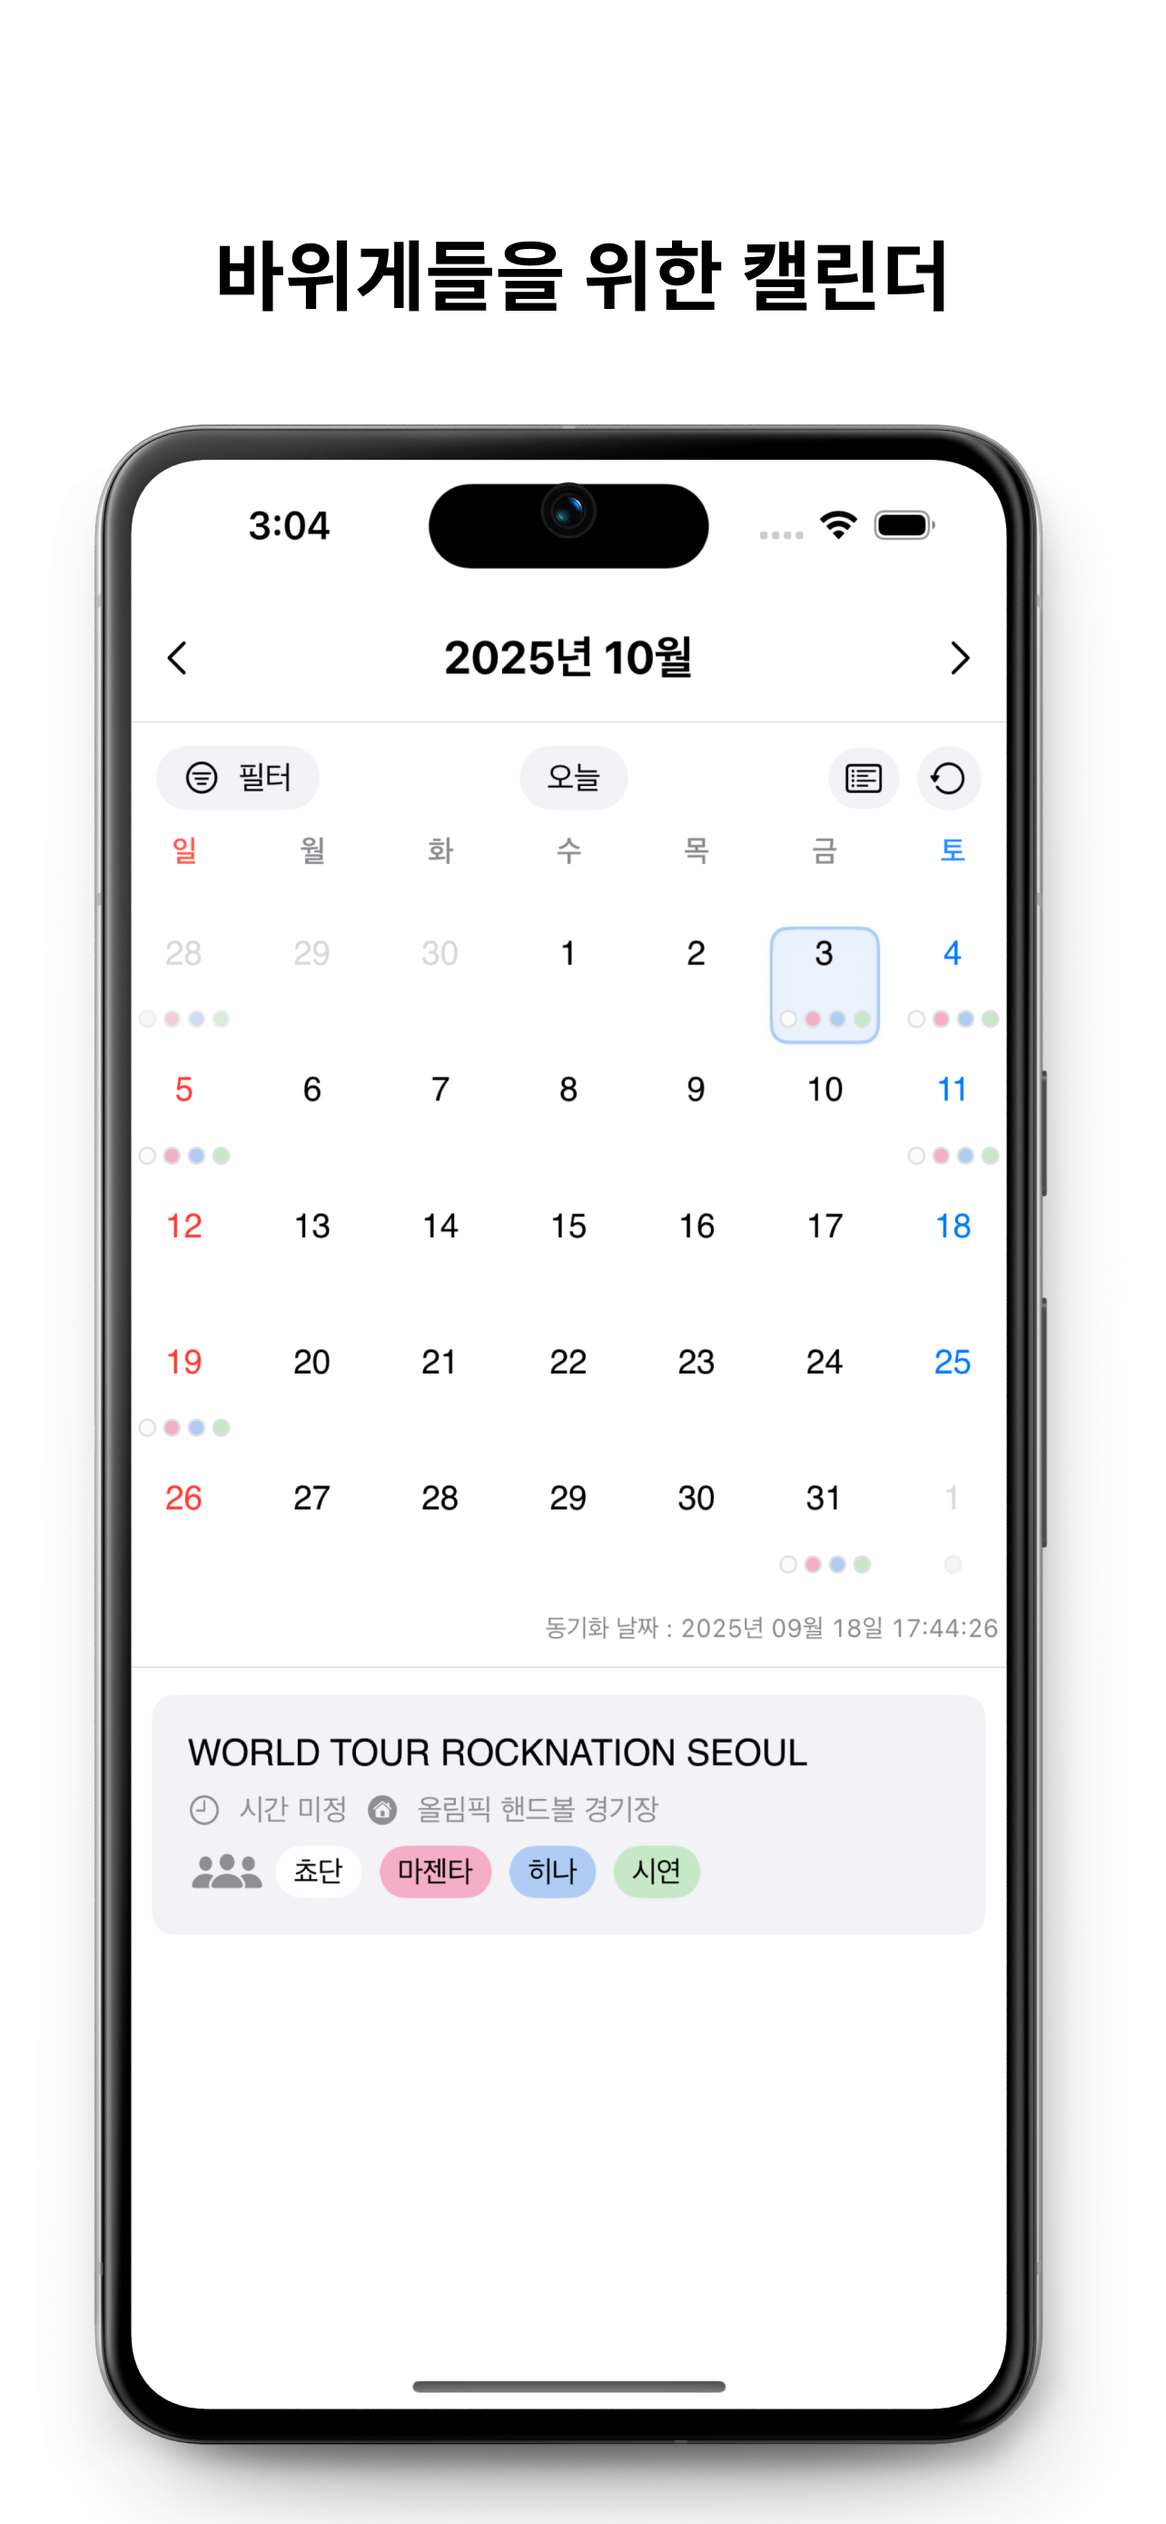
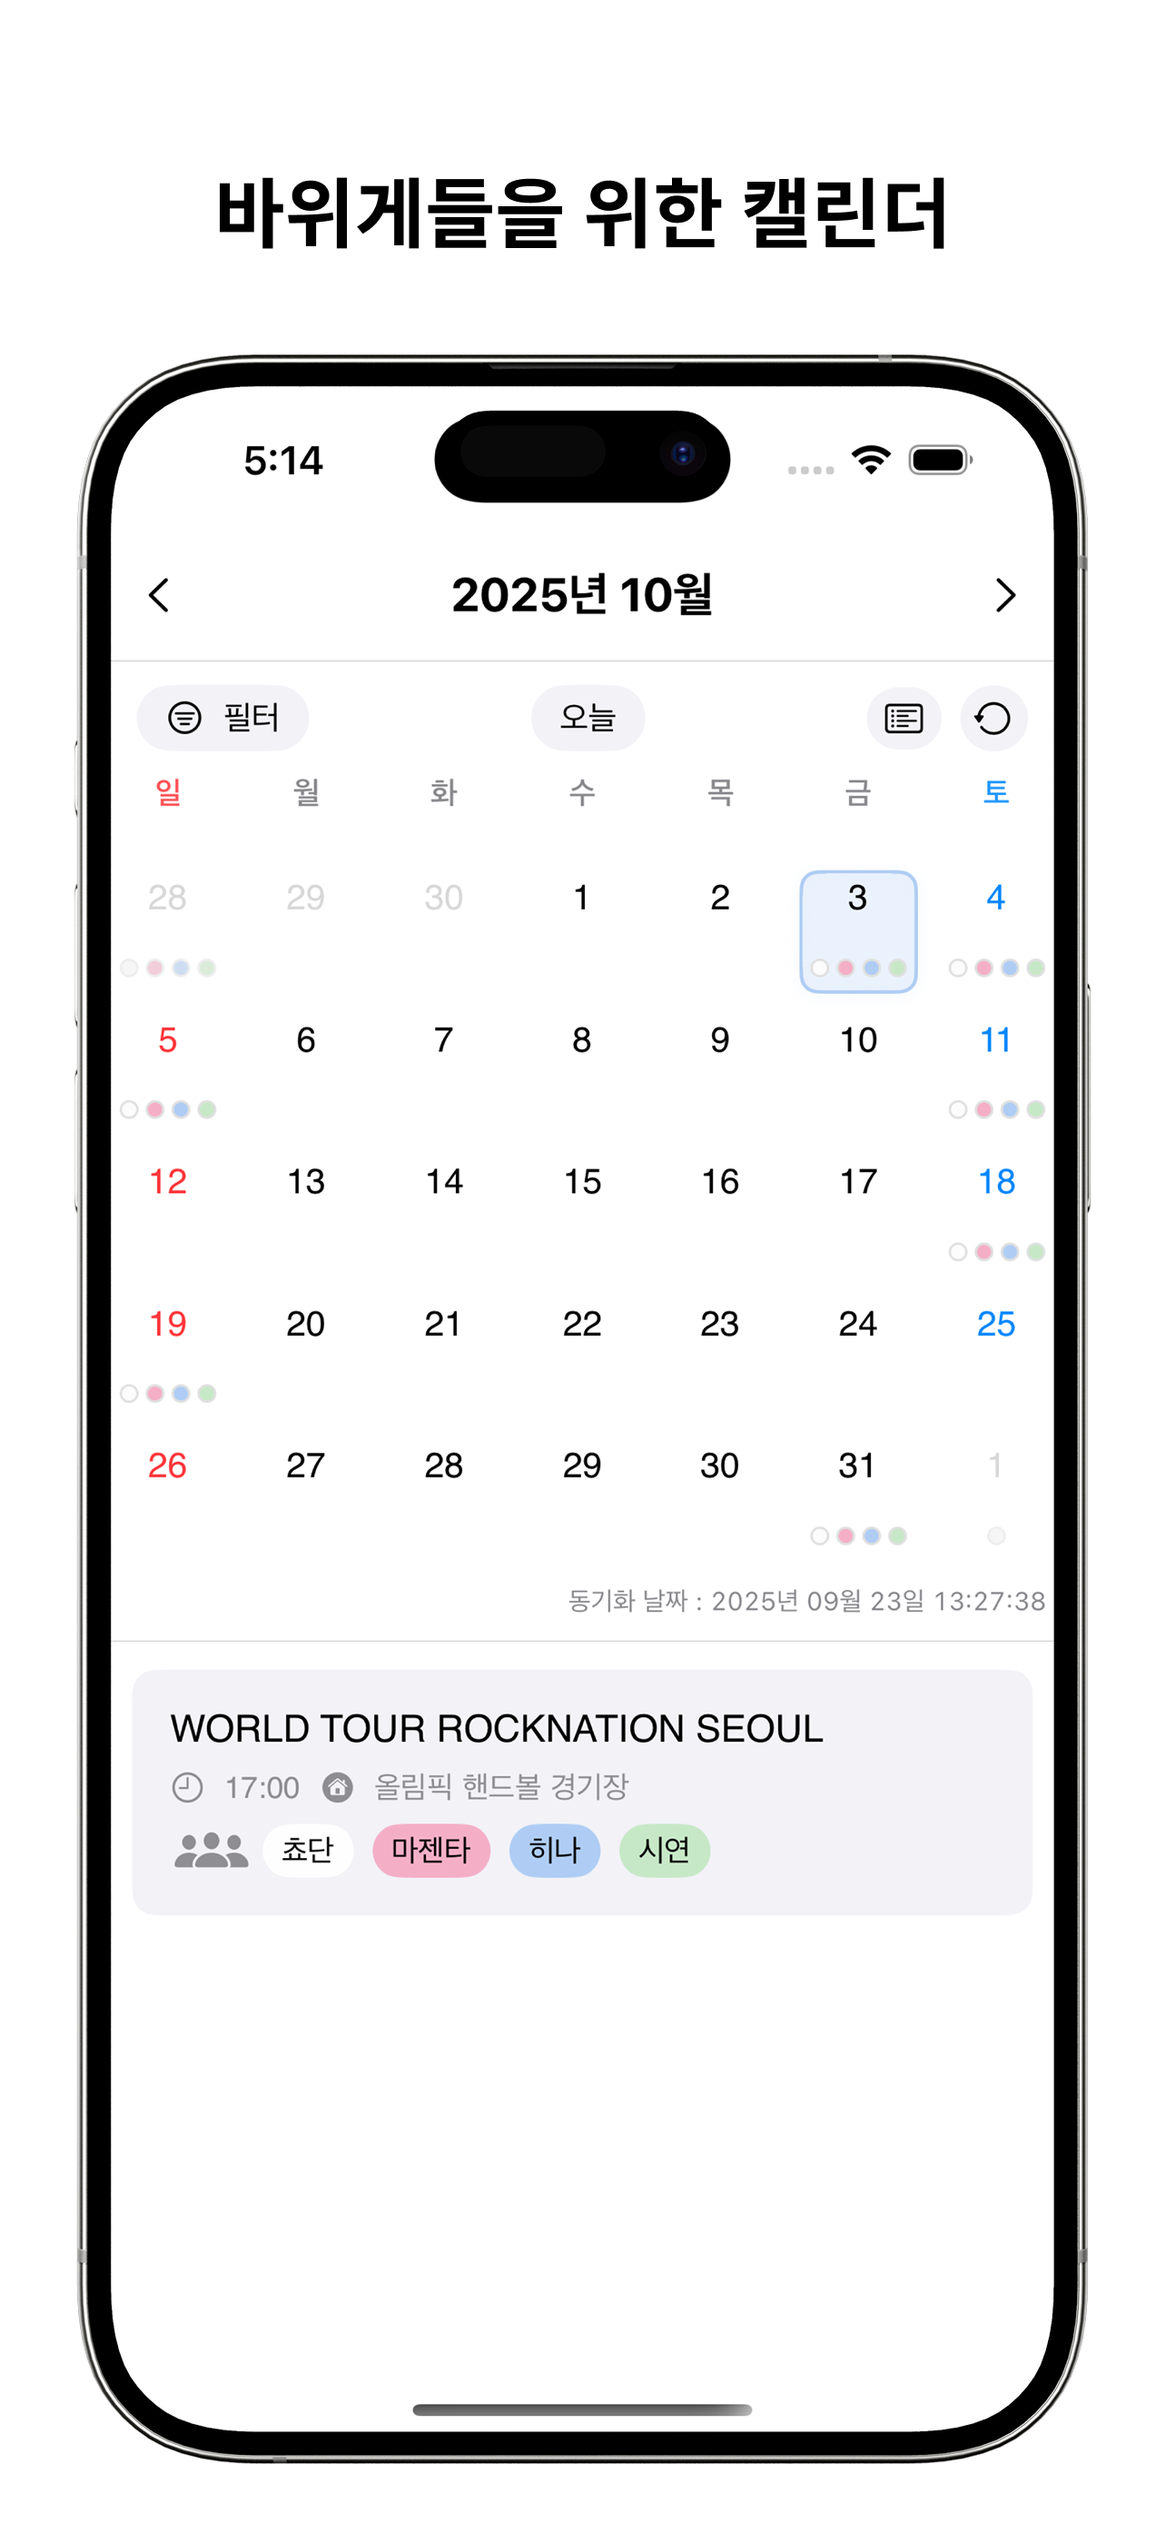
refacor: 메인 뷰 정리

diff --git a/RockCrabCalendar/RockCrabCalendar/Features/Calendar/CalendarView.swift b/RockCrabCalendar/RockCrabCalendar/Features/Calendar/CalendarView.swift
@@ -12,7 +12,7 @@ struct CalendarView: View {
     @State private var scheduleVM = ScheduleViewModel()
     @State private var dragOffset: CGFloat = 0
     @State private var showCategorySheet: Bool = false
-    @State private var showMonthList: Bool = false
+    @State private var viewType: ViewType = .calendar
     
     private let calendar = Calendar.current
     private let monthYearFormatter: DateFormatter = {
@@ -31,46 +31,71 @@ struct CalendarView: View {
     
     var body: some View {
         GeometryReader { geometry in
-            VStack(spacing: 0) {
-                VStack(spacing: 10) {
-                    dateSelectionView
-                    calendarOptionView
-                    if showMonthList {
-                        monthListView()
-                    } else {
-                        dateHeaderView
-                        dateGridView(availableWidth: geometry.size.width)
+            ZStack {
+                VStack(spacing: 0) {
+                    VStack(spacing: 10) {
+                        dateSelectionView
+                        calendarOptionView
                         
-                        // 최근 동기화 캡션
-                        Text("\(scheduleVM.lastSyncText)")
-                            .font(.caption2.monospacedDigit())
-                            .foregroundStyle(.secondary)
-                            .frame(maxWidth: .infinity, alignment: .trailing)
-                            .padding(.trailing, 4)
-                        Divider()
+                        switch viewType {
+                        case .calendar:
+                            VStack(spacing: 10) {
+                                dateHeaderView
+                                dateGridView(availableWidth: geometry.size.width)
+                                
+                                // 최근 동기화 캡션
+                                Text("\(scheduleVM.lastSyncText)")
+                                    .font(.caption2.monospacedDigit())
+                                    .foregroundStyle(.secondary)
+                                    .frame(maxWidth: .infinity, alignment: .trailing)
+                                    .padding(.trailing, 4)
+                                Divider()
+                            }
+                            .background(Color(UIColor { $0.userInterfaceStyle == .dark ? .secondarySystemBackground : .white }))
+                            
+                            let selectedDateSchedules = scheduleVM.schedules(on: scheduleVM.selectedDate)
+                            if !selectedDateSchedules.isEmpty {
+                                scheduleListView(schedules: selectedDateSchedules)
+                                    .padding(.top, 12)
+                            } else {
+                                Spacer()
+                                VStack(spacing: 8) {
+                                    Image(systemName: "calendar.badge.exclamationmark")
+                                        .font(.system(size: 24))
+                                        .foregroundStyle(.tertiary)
+                                    Text("일정이 없습니다")
+                                        .font(.callout)
+                                        .foregroundStyle(.secondary)
+                                }
+                                Spacer()
+                            }
+                        case .list:
+                            VStack(spacing: 10) {
+                                monthListView()
+                            }
+                            .background(Color(UIColor { $0.userInterfaceStyle == .dark ? .secondarySystemBackground : .white }))
+                        }
                     }
                 }
-                .background(Color(UIColor { $0.userInterfaceStyle == .dark ? .secondarySystemBackground : .white }))
                 
-                if showMonthList {
-                    EmptyView()
-                } else {
-                    let selectedDateSchedules = scheduleVM.schedules(on: scheduleVM.selectedDate)
-                    if !selectedDateSchedules.isEmpty {
-                        scheduleListView(schedules: selectedDateSchedules)
-                            .padding(.top, 12)
-                    } else {
+                VStack {
+                    Spacer()
+                    HStack {
                         Spacer()
-                        VStack(spacing: 8) {
-                            Image(systemName: "calendar.badge.exclamationmark")
-                                .font(.system(size: 24))
-                                .foregroundStyle(.tertiary)
-                            Text("일정이 없습니다")
-                                .font(.callout)
-                                .foregroundStyle(.secondary)
+                        
+                        Button {
+                            // TODO: TODO
+                        } label: {
+                            Image(systemName: "plus.circle")
+                                .renderingMode(.template)
+                                .resizable()
+                                .frame(width: 40, height: 40)
+                                .foregroundStyle(Color.secondary)
+                                .shadow(radius: 4)
                         }
-                        Spacer()
                     }
+                    .padding(.trailing, 20)
+                    .padding(.bottom, 10)
                 }
             }
         }
@@ -148,26 +173,28 @@ struct CalendarView: View {
             }
             
             Spacer()
-            Button {
-                withAnimation(.easeInOut(duration: 0.25)) {
-                    showMonthList.toggle()
+            
+            Group {
+                switch viewType {
+                case .calendar:
+                    Button {
+                        viewType = .list
+                    } label: {
+                        Image(systemName: "list.bullet")
+                    }
+                case .list:
+                    Button {
+                        viewType = .calendar
+                    } label: {
+                        Image(systemName: "calendar")
+                    }
                 }
-            } label: {
-                Image(systemName: showMonthList ? "calendar" : "list.bullet.rectangle")
-                    .pretendSemiBold(size: 14)
-                    .padding(6)
-                    .background(Capsule().fill(Color(UIColor { $0.userInterfaceStyle == .dark ? .systemGray5 : .systemGray6 })))
-                    .foregroundColor(.primary)
             }
-
-            // MARK: 유튜브 리스트 뷰 (추후)
-//            NavigationLink(destination: YouTubeListView()) {
-//                Image(systemName: "play.rectangle")
-//                    .pretendSemiBold(size: 14)
-//                    .padding(6)
-//                    .background(Capsule().fill(Color(UIColor.systemGray5)))
-//                    .foregroundColor(.primary)
-//            }
+            .pretendSemiBold(size: 14)
+            .padding(6)
+            .animation(.easeInOut(duration: 0.25), value: viewType)
+            .background(Capsule().fill(Color(UIColor { $0.userInterfaceStyle == .dark ? .systemGray5 : .systemGray6 })))
+            .foregroundColor(.primary)
 
             Button {
                 scheduleVM.fetchAllSchedules(force: true)
@@ -273,8 +300,6 @@ struct CalendarView: View {
                     HStack(spacing: 8) {
                         Label(item.displayTime, systemImage: "clock")
                         Label(item.displayPlace, systemImage: "house.circle.fill")
-//                        if !item.time.isEmpty { Label(item.time, systemImage: "clock") }
-//                        if !item.place.isEmpty { Label(item.place, systemImage: "house.circle.fill") }
                     }
                     .pretendReg(size: 13)
                     .foregroundColor(.gray)
@@ -368,93 +393,14 @@ struct CalendarView: View {
             .transition(.opacity)
         }
     }
-    
-    private struct CategoryFilterSheet: View {
-        @Environment(\.dismiss) private var dismiss
-        @State private var selected: Set<ScheduleCategory>
-        let onApply: (Set<ScheduleCategory>) -> Void
+}
 
-        init(active: Set<ScheduleCategory>,
-             onApply: @escaping (Set<ScheduleCategory>) -> Void) {
-            _selected = State(initialValue: active)
-            self.onApply = onApply
-        }
-
-        var body: some View {
-            NavigationStack {
-                List {
-                    Section {
-                        // 전체 선택 (토글)
-                        Button {
-                            if selected.count == ScheduleCategory.allCases.count {
-                                selected.removeAll()
-                            } else {
-                                selected = Set(ScheduleCategory.allCases)
-                            }
-                        } label: {
-                            HStack(spacing: 10) {
-                                let allSelected = selected.count == ScheduleCategory.allCases.count
-                                Image(systemName: allSelected ? "checkmark.circle.fill" : "circle")
-                                    .foregroundStyle(allSelected ? .blue : .secondary)
-                                Text("전체 선택")
-                                Spacer()
-                            }
-                        }
-                        
-                        ForEach(Array(ScheduleCategory.allCases), id: \.self) { cat in
-                            HStack(spacing: 10) {
-                                Image(systemName: selected.contains(cat) ? "checkmark.circle.fill" : "circle")
-                                    .foregroundStyle(selected.contains(cat) ? .blue : .secondary)
-                                Text(cat.rawValue)
-                                Spacer()
-                            }
-                            .contentShape(Rectangle())
-                            .onTapGesture {
-                                if selected.contains(cat) { selected.remove(cat) }
-                                else { selected.insert(cat) }
-                            }
-                        }
-                    } header: {
-                        HStack {
-                            Text("분류 선택")
-                            Spacer()
-                        }
-                        .pretendSemiBold(size: 20)
-                        .foregroundStyle(.primary)
-                    }
-                    .headerProminence(.increased)
-                }
-                .pretendSemiBold(size: 16)
-                .foregroundStyle(.secondary)
-                .listStyle(.insetGrouped)
-                .scrollContentBackground(.hidden)
-                .background(Color(UIColor { trait in
-                    trait.userInterfaceStyle == .dark ? .black : .systemGroupedBackground
-                }))
-                .listRowBackground(Color(UIColor { trait in
-                    trait.userInterfaceStyle == .dark ? .secondarySystemBackground : .white
-                }))
-                .navigationTitle("필터")
-                .toolbar {
-                    ToolbarItem(placement: .topBarTrailing) {
-                        Button {
-                            onApply(selected)
-                            dismiss()
-                        } label: {
-                            Text("적용")
-                                .pretendSemiBold(size: 15)
-                        }
-                    }
-                }
-                .toolbarBackground(Color(UIColor { trait in
-                    trait.userInterfaceStyle == .dark ? .black : .white
-                }), for: .navigationBar)
-                .toolbarBackground(.visible, for: .navigationBar)
-                .navigationBarTitleDisplayMode(.inline)
-            }
-            .background(Color(UIColor { trait in
-                trait.userInterfaceStyle == .dark ? .black : .white
-            }))
-        }
+extension CalendarView {
+    enum ViewType {
+        /// 달력
+        case calendar
+        /// 리스트
+        case list
     }
 }
+

diff --git a/RockCrabCalendar/RockCrabCalendar/Features/Calendar/Component/CategoryFilterSheet.swift b/RockCrabCalendar/RockCrabCalendar/Features/Calendar/Component/CategoryFilterSheet.swift
@@ -1,0 +1,97 @@
+//
+//  CategoryFilterSheet.swift
+//  RockCrabCalendar
+//
+//  Created by YuSeongChoi on 9/24/25.
+//
+
+import SwiftUI
+
+struct CategoryFilterSheet: View {
+    @Environment(\.dismiss) private var dismiss
+    @State private var selected: Set<ScheduleCategory>
+    let onApply: (Set<ScheduleCategory>) -> Void
+
+    init(active: Set<ScheduleCategory>,
+         onApply: @escaping (Set<ScheduleCategory>) -> Void) {
+        _selected = State(initialValue: active)
+        self.onApply = onApply
+    }
+
+    var body: some View {
+        NavigationStack {
+            List {
+                Section {
+                    // 전체 선택 (토글)
+                    Button {
+                        if selected.count == ScheduleCategory.allCases.count {
+                            selected.removeAll()
+                        } else {
+                            selected = Set(ScheduleCategory.allCases)
+                        }
+                    } label: {
+                        HStack(spacing: 10) {
+                            let allSelected = selected.count == ScheduleCategory.allCases.count
+                            Image(systemName: allSelected ? "checkmark.circle.fill" : "circle")
+                                .foregroundStyle(allSelected ? .blue : .secondary)
+                            Text("전체 선택")
+                            Spacer()
+                        }
+                    }
+                    
+                    ForEach(Array(ScheduleCategory.allCases), id: \.self) { cat in
+                        HStack(spacing: 10) {
+                            Image(systemName: selected.contains(cat) ? "checkmark.circle.fill" : "circle")
+                                .foregroundStyle(selected.contains(cat) ? .blue : .secondary)
+                            Text(cat.rawValue)
+                            Spacer()
+                        }
+                        .contentShape(Rectangle())
+                        .onTapGesture {
+                            if selected.contains(cat) { selected.remove(cat) }
+                            else { selected.insert(cat) }
+                        }
+                    }
+                } header: {
+                    HStack {
+                        Text("분류 선택")
+                        Spacer()
+                    }
+                    .pretendSemiBold(size: 20)
+                    .foregroundStyle(.primary)
+                }
+                .headerProminence(.increased)
+            }
+            .pretendSemiBold(size: 16)
+            .foregroundStyle(.secondary)
+            .listStyle(.insetGrouped)
+            .scrollContentBackground(.hidden)
+            .background(Color(UIColor { trait in
+                trait.userInterfaceStyle == .dark ? .black : .systemGroupedBackground
+            }))
+            .listRowBackground(Color(UIColor { trait in
+                trait.userInterfaceStyle == .dark ? .secondarySystemBackground : .white
+            }))
+            .navigationTitle("필터")
+            .toolbar {
+                ToolbarItem(placement: .topBarTrailing) {
+                    Button {
+                        onApply(selected)
+                        dismiss()
+                    } label: {
+                        Text("적용")
+                            .pretendSemiBold(size: 15)
+                    }
+                }
+            }
+            .toolbarBackground(Color(UIColor { trait in
+                trait.userInterfaceStyle == .dark ? .black : .white
+            }), for: .navigationBar)
+            .toolbarBackground(.visible, for: .navigationBar)
+            .navigationBarTitleDisplayMode(.inline)
+        }
+        .background(Color(UIColor { trait in
+            trait.userInterfaceStyle == .dark ? .black : .white
+        }))
+    }
+}
